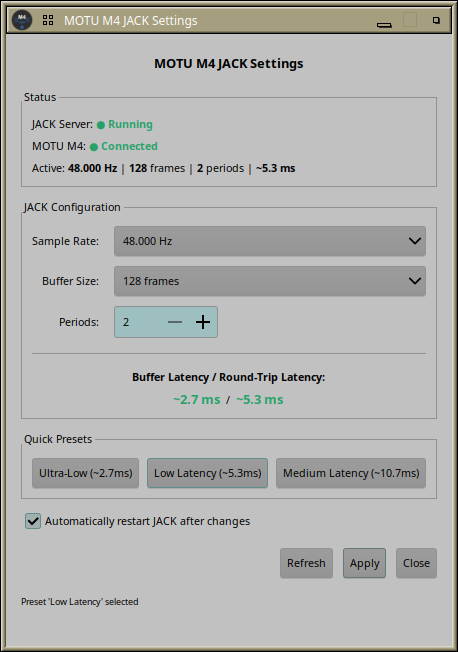
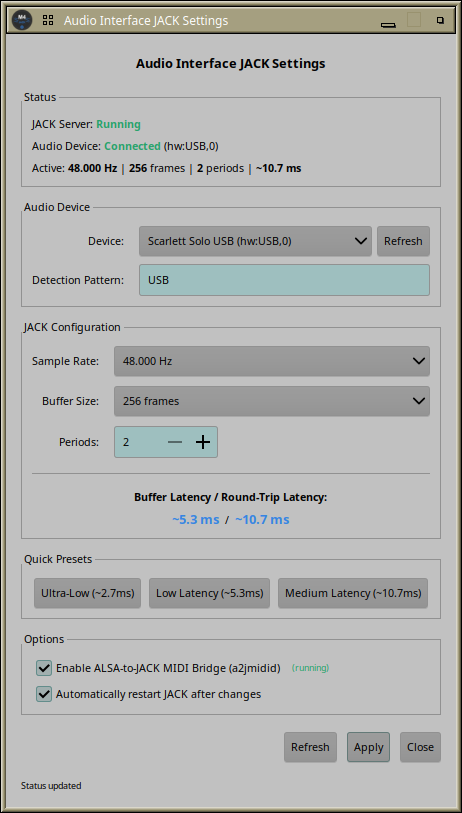
Update README with Steinberg UR242 and new GUI screenshot
- Add Steinberg UR242 (hw:UR242,0) to supported interfaces table
- Add GUI screenshot showing the new interface
- Update Scarlett entry to include Solo variant

diff --git a/README.md b/README.md
@@ -25,7 +25,8 @@ Works with any JACK-compatible USB audio interface, including:
 | Interface | AUDIO_DEVICE | DEVICE_PATTERN |
 |-----------|--------------|----------------|
 | MOTU M4 | `hw:M4,0` | `M4` |
-| Focusrite Scarlett 2i2 | `hw:USB,0` | `Scarlett` |
+| Focusrite Scarlett Solo/2i2 | `hw:USB,0` | `Scarlett` |
+| Steinberg UR242 | `hw:UR242,0` | `UR242` |
 | RME Babyface Pro | `hw:Babyface,0` | `Babyface` |
 | Native Instruments | `hw:Audio,0` | `Komplete` |
 | Generic USB Audio | `hw:0,0` | *(leave empty)* |
@@ -168,6 +169,8 @@ ai-jack-gui.py
 ```
 
 Or find it in: **Audio/Video → Audio Interface JACK Settings**
+
+![Audio Interface JACK Settings GUI](gui.png)
 
 ### GUI Features
 
